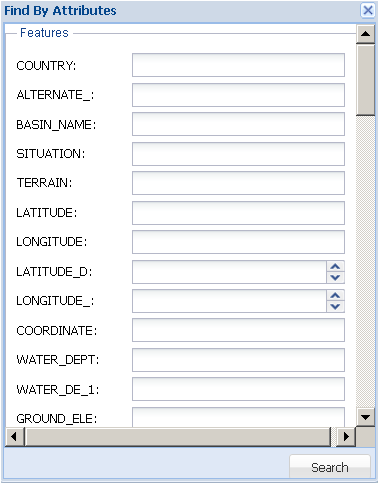
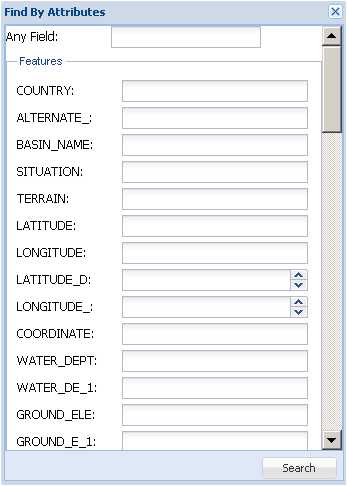
Rus Eng titles; big comments deletion; new docs

Changed region(s): [[0.0, 0.0, 1.0, 1.0]]

diff --git a/web/docs/4.html b/web/docs/4.html
@@ -7,9 +7,9 @@
 <body>
 <div class="x-help x-help-wrapper">
 <p><b>Меню Map</b></p>
-<p>Меню <b>Map (Карта)</b> служит для просмотра карты и управления пространственными объектами, к которым осуществлена привязка документов. Меню имеет единственную опцию <i>Caspian Sea</i>.</p>
-<img class="x-help-img" src="images/image058.png"/>
-<p>При ее активации в рабочем окне Приложения появится специальный интерфейс с названием выбранной опции <b>Caspian Sea</b>, в котором имеются три поля: главное поле – для выведения карты в полноэкранном режиме, и два вспомогательных – для управления картографическими основами и тематическими слоями (слева) и для размещения легенды (справа). Вспомогательные поля имеют динамические границы и могут быть полностью свернуты.</p>
+<p>Меню <b>Map (Карта)</b> служит для просмотра карты и управления пространственными объектами, к которым осуществлена привязка документов. Меню имеет опции выбора карт: <i>Caspian Sea</i> (базовая) и все сохраненные пользовательские карты.</p>
+<img class="x-help-img" src="images/image058.png" width=300/>
+<p>При выборе нужной карты она появится рабочем окне Приложения. Рабочее окно имеет три поля: главное поле – для выведения карты в полноэкранном режиме, и два вспомогательных – для управления картографическими основами и тематическими слоями (слева) и для размещения легенды (справа). Вспомогательные поля имеют динамические границы и могут быть полностью свернуты.</p>
 <img class="x-help-img" src="images/image059.png" width=800/>
 <p>Вспомогательное поле <b>Layers (Слои)</b> позволяет управлять видом отображаемой карты. Для этого пользователь должен выбрать и отметить галочкой удобную для него картографическую основу (Base Layers) (два вида картооснов или космический снимок), а также отметить необходимые для работы тематические слои (Overlays), отключив ненужные. Набор тематических слоев определяется администратором системы.</p>
 <p><img class="x-help-img" src="images/image060.png" width=200/></p>
@@ -18,7 +18,7 @@
 <p>Вспомогательное поле <b>Legend (Легенда)</b> служит для распознавания отображённых на карте пространственных объектов.
 <p><img class="x-help-img" src="images/image061.png"/></p>
 <p>В главном поле карту можно уменьшать или увеличивать с помощью встроенного инструмента масштабирования <img class="x-help-img" src="images/image042.png" width=15/>, а также используя стандартные возможности колеса мыши: прокрутка от себя – приближение к объекту, на себя – отдаление от объекта.<br>
-Функциональные возможности главного поля представлены на панели меню интерфейса <b>Caspian Sea</b>.</p>
+Функциональные возможности главного поля представлены на панели меню интерфейса карты.</p>
 <p><img class="x-help-img" src="images/image062.png"/></p>
 <p>1. Меню <img class="x-help-img" src="images/image063.png"/>  (<i>Панорамировать карту</i>) - перемещение карты в главном поле.<br> При активном инструменте можно перемещать видимую область карты, двигая курсор с зажатой левой кнопкой мыши. При этом курсор мыши поменяет вид с <img class="x-help-img" src="images/image064.png" width=25/> на <img class="x-help-img" src="images/image065.png" width=25/>. </p>
 <p>2. Меню <img class="x-help-img" src="images/image066.png"/>   (<i>Редактировать</i>) – изменение пространственных объектов, представленных на карте.<br>Чтобы приступить к редактированию, сначала следует выбрать тематический слой, в котором предполагается производить изменения. Для этого нужно выделить (засветить) название этого слоя во вспомогательном поле <b>Layers</b>, нажав курсором на его названии.<br>
@@ -42,30 +42,41 @@
 Выбрать несколько объектов можно, очертив их прямоугольной областью, перемещая курсор в рабочем окне карты.<br>
 Снять выделение объекта можно, снова нажав на него курсором.</p>
 <p><img class="x-help-img" src="images/image082.png"/></p>
-<p>4. Меню <img class="x-help-img" src="images/image082a.png"/>  (<i>Искать</i>) - поиск объекта по заданному значению атрибута.<br> Для поиска необходимо засветить тематический слой, к которому относится искомый объект, и активировать кнопку меню. В появившемся дополнительном окне <b>Find By Attributes</b> (с разным набором атрибутивных полей для различных типов объектов) ввести атрибуты объекта, по которым будет осуществляться поиск, и нажать кнопку <i>Search</i>. Найденный объект подсветится на карте.
+<p>4. Меню <img class="x-help-img" src="images/image082a.png"/>  (<i>Искать</i>) - поиск объекта по заданному значению атрибута. Имеет две опции - <i>Any</i>  и <i>by Attribute</i>.<br>
+Опция <i>Any</i> предполагает поиск объекта по его атрибуту в любом из слоев карты. Для поиска необходимо активировать кнопку меню и в появившемся дополнительном окне <b>Simple Search</b> ввести значение атрубута для поиска.
+<p><img class="x-help-img" src="images/image116.png"/></p>
+<p>Найденный объект подсветится на карте.</p>
+Опция <i>by Attribute</i> предполагает поиск объекта по его атрибуту в конкретном слое карты. Для поиска необходимо засветить требуемый слой во вспомогательном поле <b>Layers</b> и активировать данную опцию.
+В появившемся дополнительном окне <b>Find By Attributes</b> (для различных типов объектов вид данного окна будет отличаться разным набором атрибутивных полей) ввести атрибуты объекта, по которым будет осуществляться его поиск, и нажать кнопку <i>Search</i>. Чтобы Приложение осуществляло поиск значения атрибута во всех полях, его следует вводить в окошке <i>Any field</i>. Для сужения поиска можно ввести значение в то поле атрибута, по которому предполагается искать объекты. Найденный объект подсветится на карте.</p>
 <p><img class="x-help-img" src="images/image113.png"/></p>
 <p>5. Меню <img class="x-help-img" src="images/image067.png"/>  (<i>Информация</i>) - получение информации об объекте.<br> При активном инструменте следует навести курсор на нужный объект, и нажать левую кнопку мыши. Объект засветится и появится дополнительное окно <b>Features</b> с атрибутивными характеристиками данного объекта.
 <p><img class="x-help-img" src="images/image068.png"/>
 <p>В правом нижнем углу окна <b>Features</b> имеется опция <i>Documents</i>, при выборе которой появится дополнительное окно <b>Found Documents</b> с перечнем всех документов, относящихся к этому объекту. Работа с этим окном аналогична действиям с командой <b>Find</b> (см. <a href="3.2.1.html">Простой поиск</a>).
-<p>6. Меню <img class="x-help-img" src="images/image082b.png"/>  (<i>Сохранить конфигурацию</i>) - сохранение текущих пользовательских настроек состава и отображения тематических слоев.
-<p>7. Меню <img class="x-help-img" src="images/image082c.png"/>  (<i>Добавить слой</i>) – добавление тематических слоев.<br>
-После активации меню заполнить необходимые поля в дополнительном окне <b>Add WMS Layer</b> и нажать кнопку <i>Add</i>. Новый слой появится в списке тематических слоев в поле <b>Layers</b>.
+<p>6. Меню  <img class="x-help-img" src="images/image083.png"/> (<i>Найти документы</i>) – поиск документов, имеющих привязку к пространственным объектам.<br> Для получения информации о документах, связанных с пространственным объектом, необходимо выделить тематический слой, в котором находится объект, выбрать его с помощью меню <img class="x-help-img" src="images/image081.png"/>  и нажать кнопку <img class="x-help-img" src="images/image083.png"/>. Появится дополнительное окно <b>Found Documents</b>, в котором будут выведены найденные документы. Работа с этим окном аналогична действиям с командой <b>Find</b> (см. <a href="3.2.1.html">Простой поиск</a>).</p>
+<p><img class="x-help-img" src="images/image084.png"/></p>
+<p>7. Меню <img class="x-help-img" src="images/image085.png"/>  (<i>Измерить</i>) – измерение длины или площади на карте.Имеет две опции: <i>Distance</i> (Расстояние) и <i>Area</i> (Площадь).<br> 
+Для измерения линейного объекта надо выбрать опцию <i>Distance</i>, нажать кнопку мыши в начальной точке объекта (в точках поворота тоже разовое нажатие) и дважды нажать кнопку в конечной точке объекта. В появившемся окне будет указана измеренная длина в км.
+<p><img class="x-help-img" src="images/image088.png"/></p>
+Для измерения площадного объекта надо выбрать опцию <i>Area</i> и очертить его территорию многоугольником, завершающая точка ставится двойным нажатием левой кнопки мыши. В появившемся окне будет указана измеренная длина в км2.
+<p><img class="x-help-img" src="images/image089.png"/></p>
+<p>8. Меню <img class="x-help-img" src="images/image114.png"/> (<i>Печать</i>) -  сохранение карты в одном из выбранных форматов для печати.<br>
+Необходимо активировать кнопку и в появившемся дополнительном окне <b>Print Configuration</b> осуществить настройку печати - в поле <i>Map Title</i> ввести название карты, в поле <i>Map Comments</i> - комментарии, в поле <i>Layout</i> - выбрать размер листа для печати, в поле <i>DPI</i> - задать плотность печати, в поле <i>Format</i> - выбрать формат файла. После завершения нажать кнопку <i>Make Print Page</i>.</p>
+<p><img class="x-help-img" src="images/image117.png"/></p>
+В появившемся дополнительном окне выбрать необходимую опцию. Файл можно либо открыть соответствующей программой для просмотра и вывода на печать, либо сохранить в выбранном формате на локальном компьютере.
+<p><img class="x-help-img" src="images/image115.png"/></p>
+<p>9. Меню <img class="x-help-img" src="images/image082b.png"/>  (<i>Сохранить карту</i>) - сохранение текущих пользовательских настроек состава и отображения тематических слоев.
+<p>10. Меню <img class="x-help-img" src="images/image118.png"/>  (<i>Сохранить как</i>) – сохранение карты с новым названием.<br>
+<p>11. Меню <img class="x-help-img" src="images/image082c.png"/>  (<i>Добавить слой</i>) – добавление слоев. Имеет две опции - <i>Base Layer </i>(Базовый слой) и <i>Info Layer</i> (Тематический слой).<br>
+После активации нужной опции заполнить необходимые поля в дополнительном окне и нажать кнопку <i>Add</i>. Новый слой появится в списке слоев соответствующего вида в поле <b>Layers</b>.
 <p><img class="x-help-img" src="images/image082d.png" width=500/>
-<p>8. Меню <img class="x-help-img" src="images/image082e.png"/>  (<i>Удалить слой</i>) – удаление тематических слоев.<br> 
+<p>12. Меню <img class="x-help-img" src="images/image082e.png"/>  (<i>Удалить слой</i>) – удаление слоев.<br> 
 Засветить курсором удаляемый слой в списке слоев в поле <b>Layers</b> и активировать меню. Появится окно предупреждения с требованием подтвердить удаление слоя с карты. 
 <p><img class="x-help-img" src="images/image082f.png"/>
 <p>Если удаляемый слой не задан, программа попросит сначала выбрать слой.
 <p><img class="x-help-img" src="images/image082g.png"/>
-<p>9. Меню  <img class="x-help-img" src="images/image083.png"/> (<i>Найти</i>) – поиск документов, имеющих привязку к пространственным объектам.<br> Для получения информации о документах, связанных с пространственным объектом, необходимо выделить тематический слой, в котором находится объект, выбрать его с помощью меню <img class="x-help-img" src="images/image081.png"/>  и нажать кнопку <img class="x-help-img" src="images/image083.png"/>. Появится дополнительное окно <b>Found Documents</b>, в котором будут выведены найденные документы. Работа с этим окном аналогична действиям с командой <b>Find</b> (см. <a href="3.2.1.html">Простой поиск</a>).</p>
-<p><img class="x-help-img" src="images/image084.png"/></p>
-<p>10. Меню <img class="x-help-img" src="images/image085.png"/>  (<i>Измерить</i>) – измерение длины или площади на карте.<br> Для измерения расстояния надо активировать кнопку <img class="x-help-img" src="images/image086.png"/>, для измерения площади – кнопку <img class="x-help-img" src="images/image087.png"/>.<br>
-Для измерения линейного объекта надо нажать кнопку мыши в начальной точке (в точках поворота тоже разовое нажатие) и дважды нажать кнопку в конечной точке объекта. В появившемся окне будет указана измеренная длина в км.
-<p><img class="x-help-img" src="images/image088.png"/></p>
-Для измерения площадного объекта его территория очерчивается многоугольником, завершающая точка ставится двойным нажатием левой кнопки мыши. В появившемся окне будет указана измеренная длина в км2.
-<p><img class="x-help-img" src="images/image089.png"/></p>
-<p>11. Меню <img class="x-help-img" src="images/image114.png"/> (<i>Печать</i>) -  сохранение карты в формате PDF для печати.<br>
-Активировать кнопку и в появившемся окне выбрать необходимую опцию. Файл можно либо открыть в программе Adobe Reader для просмотра и вывода на печать, либо сохранить в формате PDF на локальном компьютере.
-<p><img class="x-help-img" src="images/image115.png"/></p>
+
+
+
 </div>	
 </body>
 </html>

diff --git a/web/docs/2.html b/web/docs/2.html
@@ -8,13 +8,13 @@
 <div class="x-help x-help-wrapper">
 <p>Приложение «Автоматизированная система хранения и доступа к документам» открывается в Web-браузере. Вход  в систему осуществляется под учетной записью (логин и пароль) пользователя.</p>
 <img class="x-help-img" src="images/image001.png"/>
-<p>В случае неправильного ввода идентификационной информации появится сообщение об ошибке и будет отказано во входе в систему.</pP
-<p>После входа в систему все метаданные и действия, связанные с редактированием, будут идентифицироваться с именем того пользователем, который прошел аутентификацию и произвёл соответствующие действия. Пользователь автоматически станет автором метаданных загружаемых документов или изменений, вносимых в метаданные, а также автором добавляемых графических объектов для привязки документов.<p/>
+<p>В случае неправильного ввода идентификационной информации появится сообщение об ошибке и будет отказано во входе в систему.<br>
+После входа в систему все метаданные и действия, связанные с редактированием, будут идентифицироваться с именем того пользователем, который прошел аутентификацию и произвёл соответствующие действия. Пользователь автоматически станет автором метаданных загружаемых документов или изменений, вносимых в метаданные, а также автором добавляемых графических объектов для привязки документов.<p/>
 <p>Начальный интерфейс АСХД имеет следующий вид.</p>
 <img class="x-help-img" src="images/image002.png" width=700/>
 <p>На верхней панели справа от названия Приложения размещается идентифицированное имя пользователя, под которым был осуществлён вход в систему.<br>
-Нижняя панель - панель главного меню Приложения -  содержит три раскрывающиеся меню <a href="3.html">Document</a>, <a href="4.html">Map<a/> и <a href="5.html">Options<a/>, а также меню Help для вывода в отдельном окне справочной информации.<br> 
-Рабочее окно начального интерфейса является пустым.</p>
+Нижняя панель - панель главного меню Приложения -  содержит три раскрывающиеся меню <a href="3.html">Document</a>, <a href="4.html">Map<a/> и <a href="5.html">Options<a/>, меню Help для вывода в отдельном окне справочной информации и три кнопки: <img class="x-help-img" src="images/image002a.png"/> - <i>Find Documents</i> (Поиск документов),<img class="x-help-img" src="images/image002b.png"/> - <i>Register</i> (Регисрировать новый документ), <img class="x-help-img" src="images/image002c.png"/> - <i>Documents Catalog</i> (Каталог документов), дублирующие команды меню <a href="3.html">Document</a>.</p> 
+<p>При начальном запуске программы в рабочем окне интерфейса по умолчанию загружаются два дополнительных окна: <b><a href="3.2.html">Find Document</a> (Поиск документа)</b> и карта <a href="4.html"><b>Caspian Sea</b></a>, которые по желанию можно закрыть или поменять на другие.</p>
 </div>	
 </body>
 </html>

diff --git a/web/docs/3.1.html b/web/docs/3.1.html
@@ -13,8 +13,8 @@
 <p>В рабочем окне Приложения появится специальный интерфейс с названием <b>New Document</b>, представляющий собой карточку метаданных на документ и позволяющий вводить метаданные о документе для его последующей загрузки в хранилище. Все метаданные нового документа сгруппированы в девять панелей. Десятой панелью является панель привязки документов к пространственным объектам.</p>
 <img class="x-help-img" src="images/image006.png" width=800/>
 <p><img class="x-help-img" src="images/image007.png" width=20/> Панель <b>General</b> включает четыре поля учётных данных:<br>
-- <i>Short Title</i> - сокращённое название документа для его идентификации;<br>
-- <i>Full Title</i> - официальное полное наименование документа;<br>
+- <i>Title Rus</i> - русское название документа для его идентификации;<br>
+- <i>Title Eng</i> - английское наименование документа;<br>
 - <i>Keywords</i> – основные ключевые слова, отражающие суть документа и позволяющие его идентифицировать;<br>
 - <i>Comment</i> - Комментарии оператора при необходимости внесения дополнительной информации, касающейся регистрируемого документа: технология его создания, краткое описание и т.п. (необязательное поле для заполнения).<br>
 Все поля заполняются вручную.</p>

diff --git a/web/app/view/DomainDocumentsGridPanel.js b/web/app/view/DomainDocumentsGridPanel.js
@@ -39,13 +39,13 @@ Ext.define('PetroRes.view.DomainDocumentsGridPanel', {
                 {
                     xtype: 'gridcolumn',
                     dataIndex: 'title',
-                    flex: 10,
-                    text: 'Short Title'
+                    flex: 7,
+                    text: 'Title Rus'
                 }, {
                     xtype: 'gridcolumn',
                     dataIndex: 'fullTitle',
-                    flex: 5,
-                    text: 'Full Title'
+                    flex: 7,
+                    text: 'Title Eng'
                 }, {
                     xtype: 'gridcolumn',
                     dataIndex: 'number',

diff --git a/web/app/view/DocumentsGridPanel.js b/web/app/view/DocumentsGridPanel.js
@@ -17,12 +17,12 @@ Ext.define('PetroRes.view.DocumentsGridPanel', {
                 {
                     xtype: 'gridcolumn',
                     dataIndex: 'title',
-                    flex: 10,
+                    flex: 7,
                     text: 'Title Rus'
                 }, {
                     xtype: 'gridcolumn',
                     dataIndex: 'fullTitle',
-                    flex: 5,
+                    flex: 7,
                     text: 'Title Eng'
                 }, {
                     xtype: 'gridcolumn',
